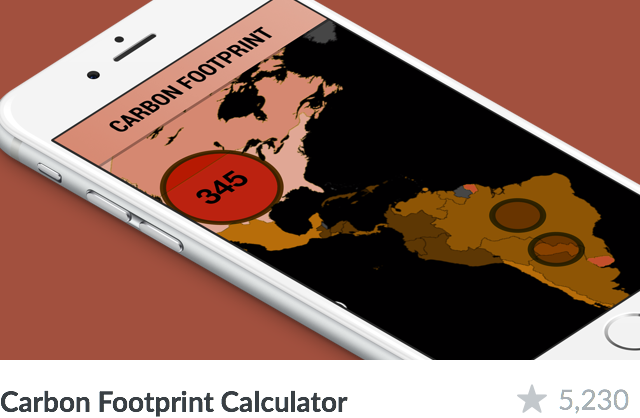
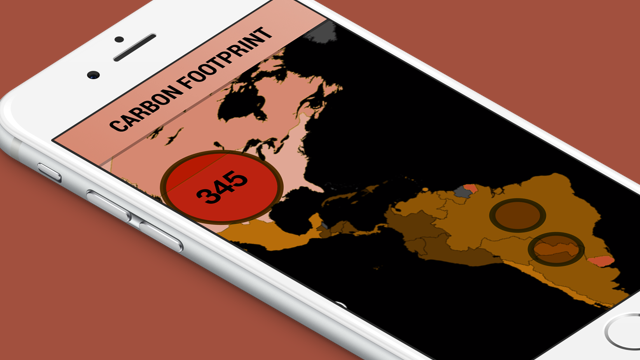
Correct image for app card

diff --git a/index.html b/index.html
@@ -75,57 +75,6 @@
           </div>
 
         </div>
-
-        <div class="cell">
-
-          <div class="card data">
-            <div class="card-image">
-              <img src="img/data-1.png">
-            </div>
-
-            <div class="card-content">
-              <h5 class="card-title">Water levels in Northern California</h5>
-              <h6 class="card-sub-title">Centre for Research on Lorem</h6>
-            </div>
-
-            <ul class="card-info">
-              <li class="card-info-download">
-                <a href="#">Map</a>
-                <a href="#">CSV</a>
-              </li>
-              <li class="card-info-stars">
-                <i class="fa fa-star"></i> 5,230
-              </li>
-            </ul>
-          </div>
-
-        </div>
-
-        <div class="cell">
-
-          <div class="card data">
-            <div class="card-image">
-              <img src="img/data-1.png">
-            </div>
-
-            <div class="card-content">
-              <h5 class="card-title">Water levels in Northern California</h5>
-              <h6 class="card-sub-title">Centre for Research on Lorem</h6>
-            </div>
-
-            <ul class="card-info">
-              <li class="card-info-download">
-                <a href="#">Map</a>
-                <a href="#">CSV</a>
-              </li>
-              <li class="card-info-stars">
-                <i class="fa fa-star"></i> 5,230
-              </li>
-            </ul>
-          </div>
-
-        </div>
-
       </div>
 
       <div class="gridbox">
@@ -149,7 +98,7 @@
 
           <div class="card app">
             <div class="card-image">
-              <img src="img/category-1.png">
+              <img src="img/app-1.png">
             </div>
 
             <div class="card-caption">
